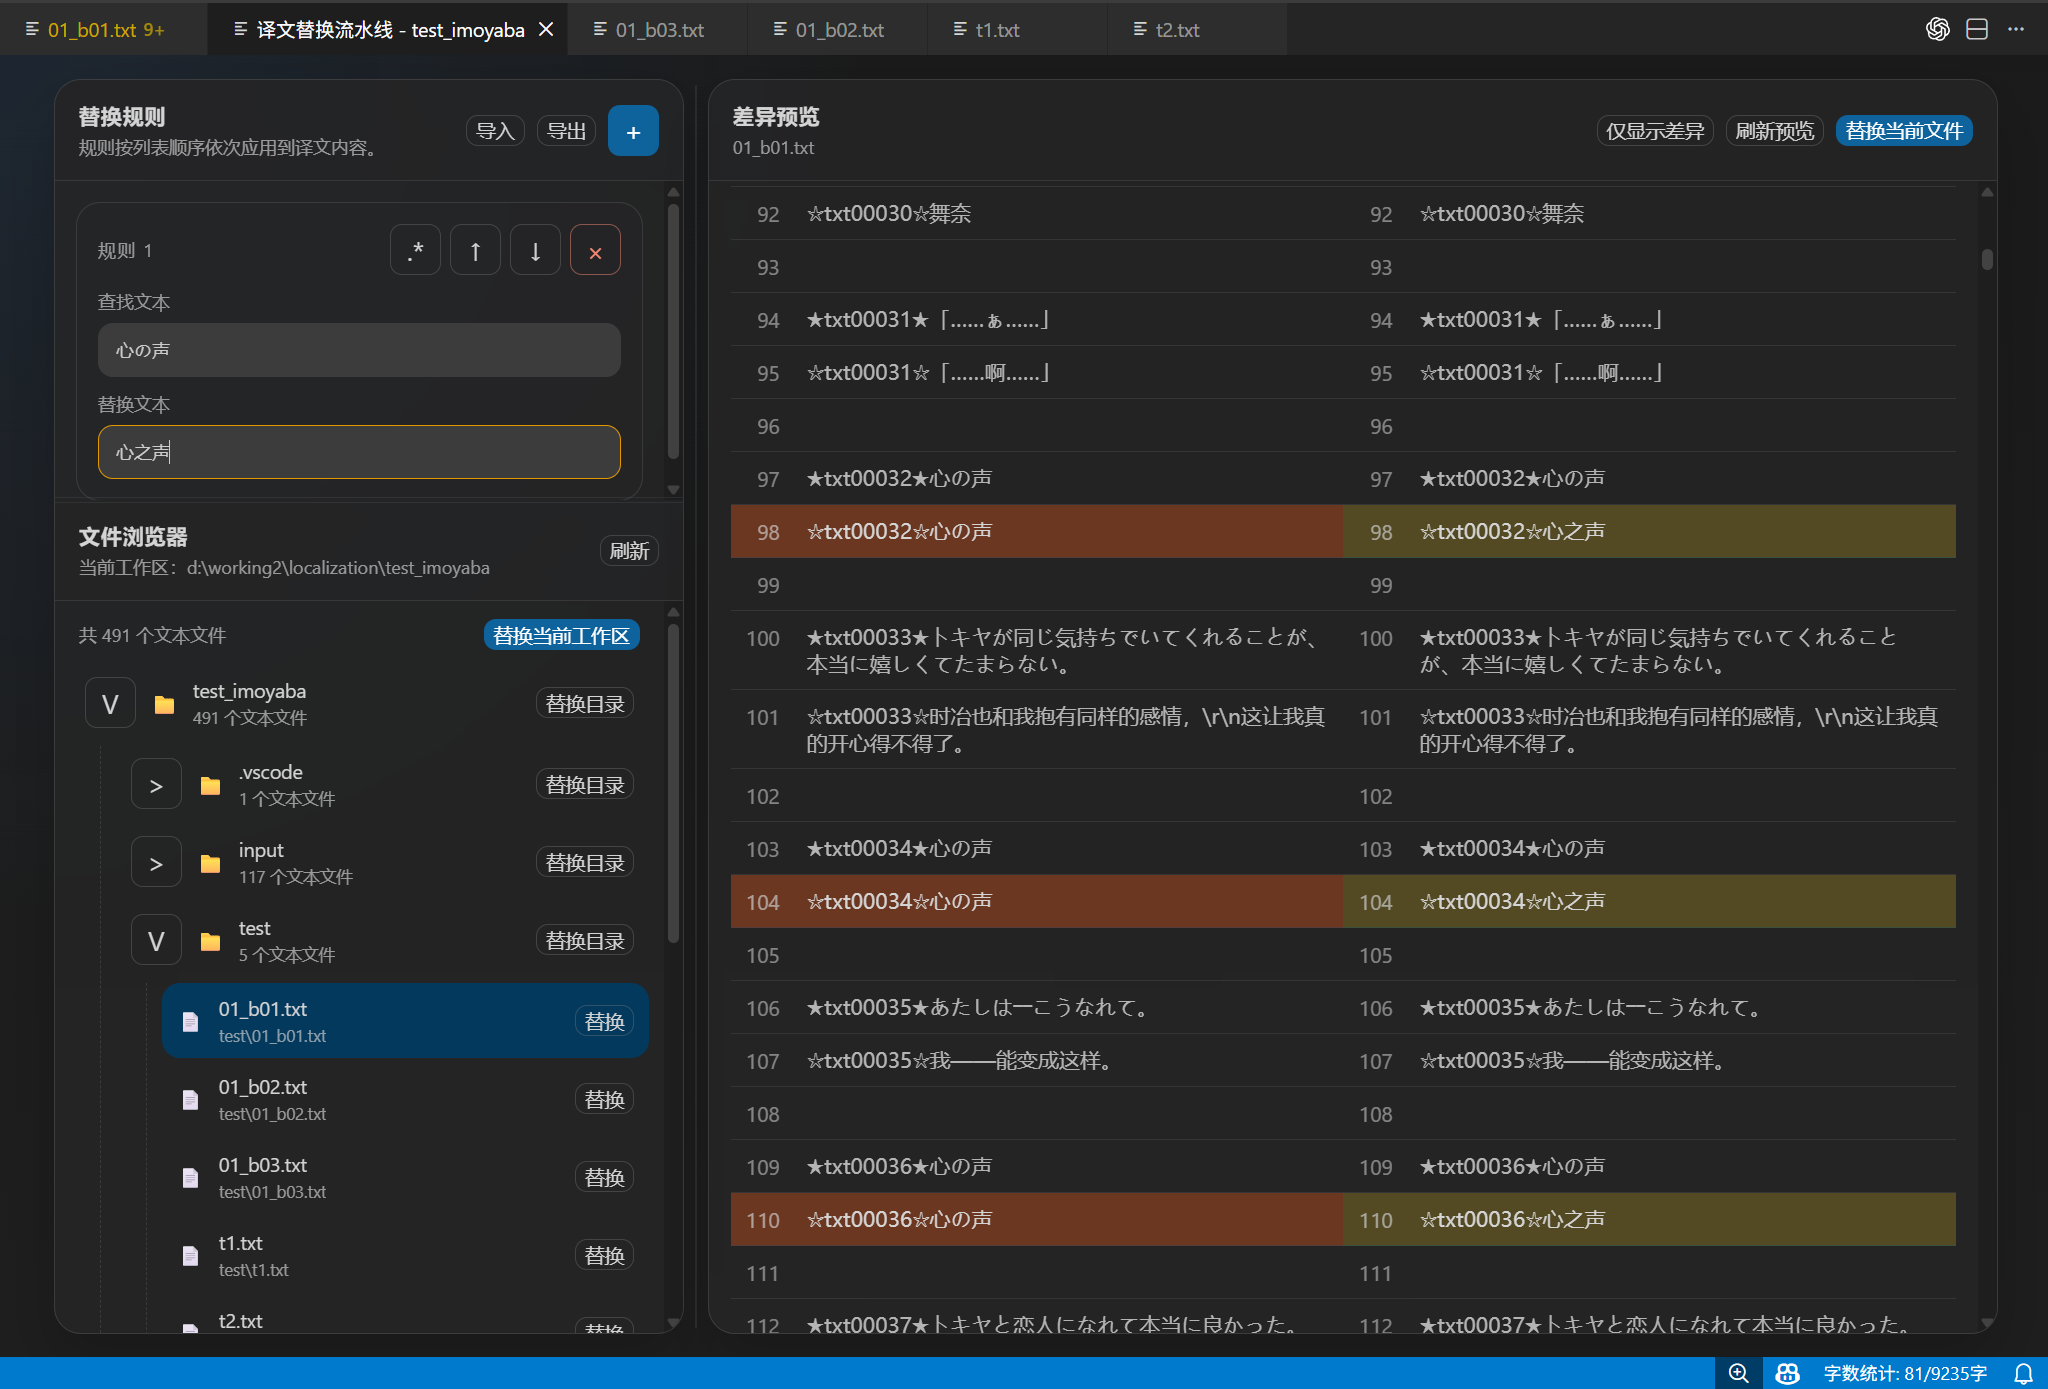
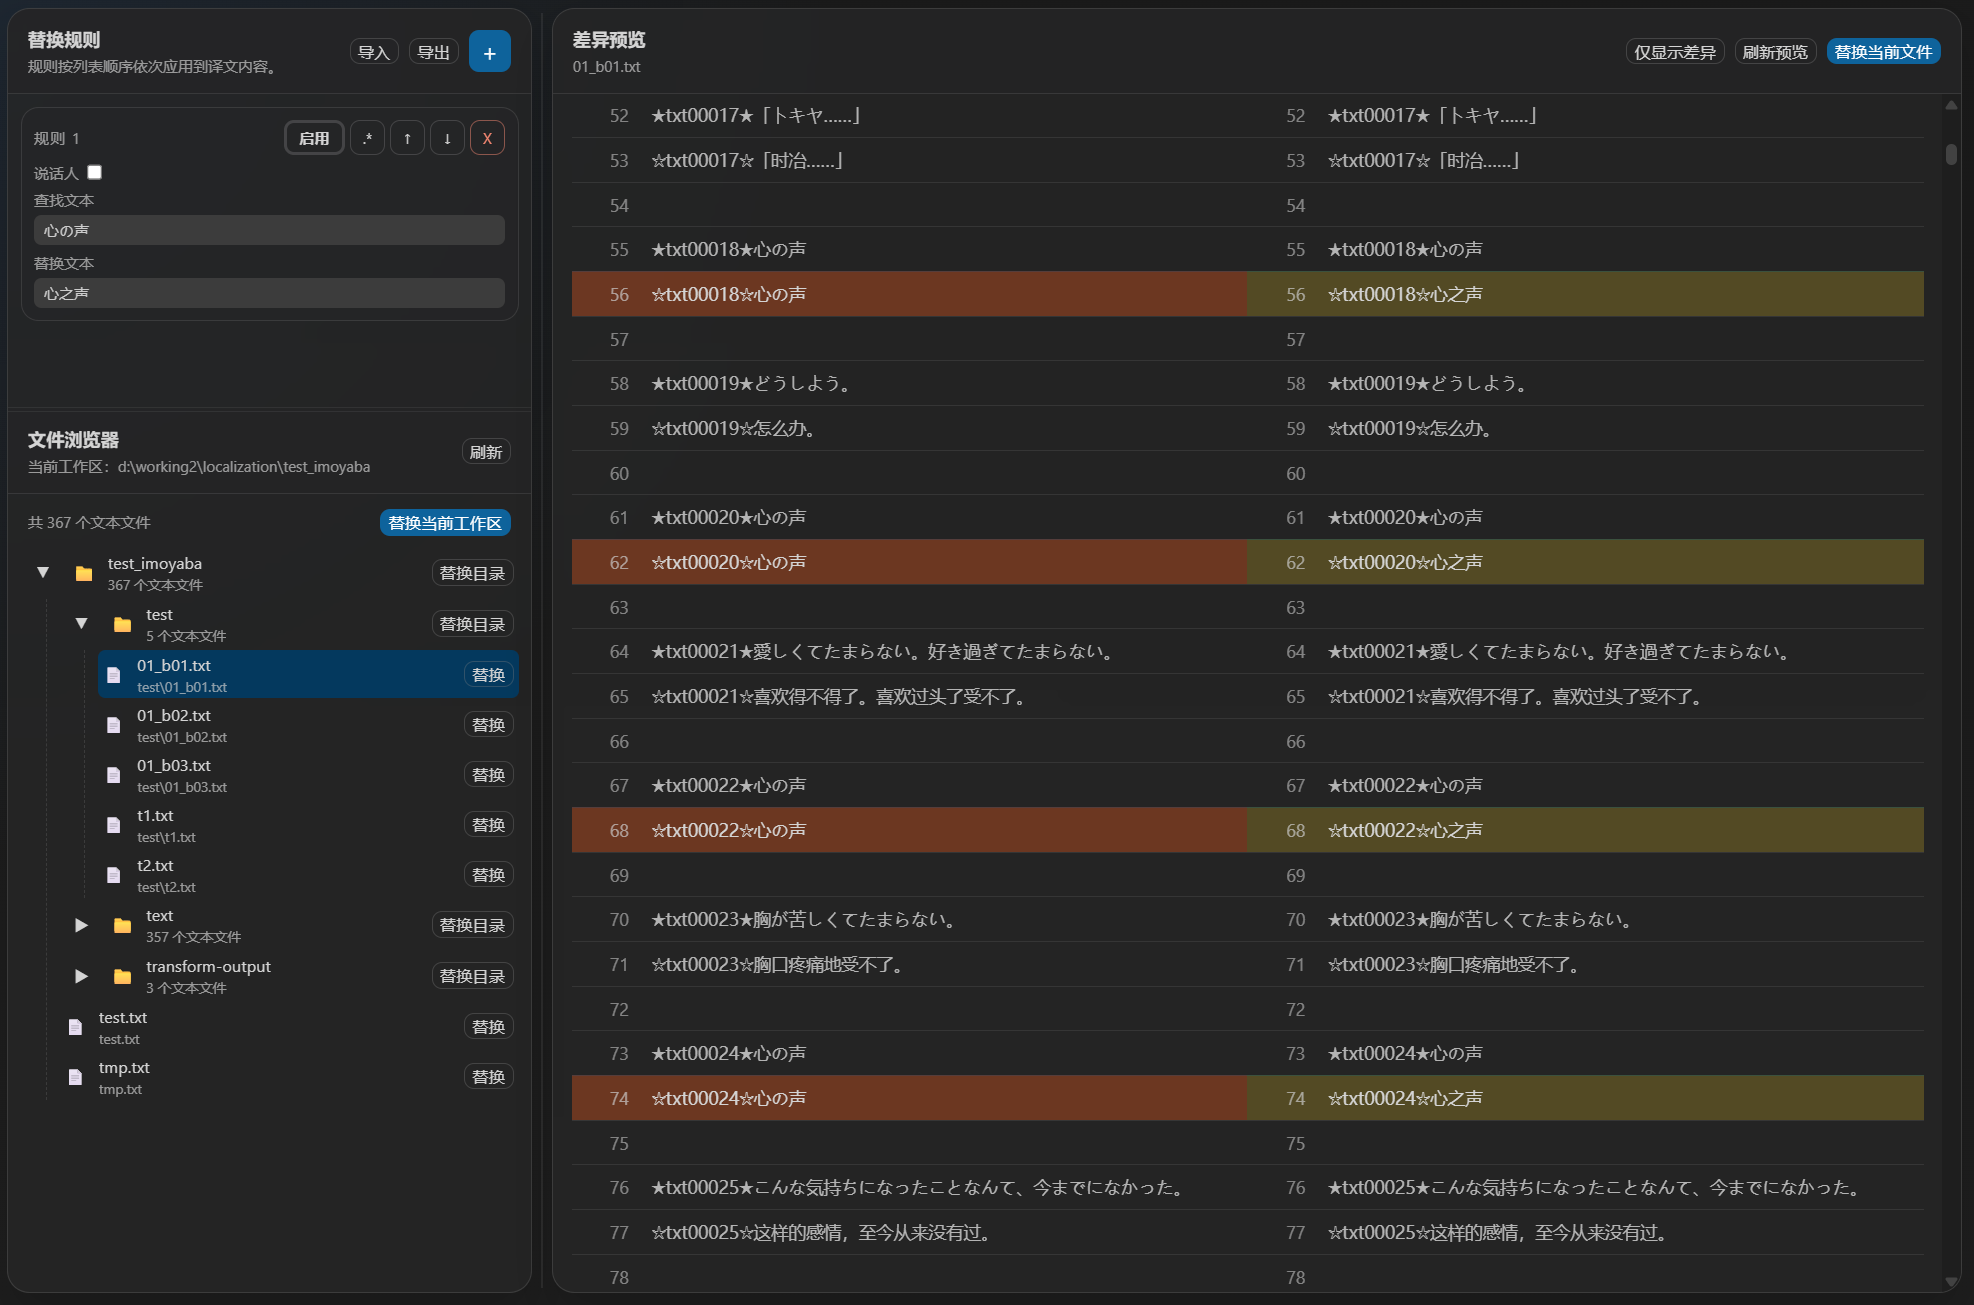
ui fix

diff --git a/src/webview/batch-regex-replace-react.tsx b/src/webview/batch-regex-replace-react.tsx
@@ -213,9 +213,6 @@ function splitLines(text: string): string[] {
 function computeDiffRows(beforeText: string, afterText: string): DiffRow[] {
 	const beforeLines = splitLines(beforeText);
 	const afterLines = splitLines(afterText);
-	if (beforeLines.length * afterLines.length <= 160000) {
-		return computeLcsDiff(beforeLines, afterLines);
-	}
 
 	const rows: DiffRow[] = [];
 	const max = Math.max(beforeLines.length, afterLines.length);
@@ -241,114 +238,6 @@ function computeDiffRows(beforeText: string, afterText: string): DiffRow[] {
 	return rows;
 }
 
-function computeLcsDiff(beforeLines: string[], afterLines: string[]): DiffRow[] {
-	const rows: DiffRow[] = [];
-	const m = beforeLines.length;
-	const n = afterLines.length;
-
-	let nextRow = new Array<number>(n + 1).fill(0);
-	let currRow = new Array<number>(n + 1).fill(0);
-	const hints = Array.from({ length: m }, () => new Uint8Array(n));
-
-	for (let i = m - 1; i >= 0; i--) {
-		for (let j = n - 1; j >= 0; j--) {
-			if (beforeLines[i] === afterLines[j]) {
-				currRow[j] = nextRow[j + 1] + 1;
-				hints[i][j] = 0;
-			} else {
-				const scoreMovedI = nextRow[j];
-				const scoreMovedJ = currRow[j + 1];
-
-				if (scoreMovedI === scoreMovedJ) {
-					currRow[j] = scoreMovedI;
-					hints[i][j] = 1;
-				} else if (scoreMovedI > scoreMovedJ) {
-					currRow[j] = scoreMovedI;
-					hints[i][j] = 2;
-				} else {
-					currRow[j] = scoreMovedJ;
-					hints[i][j] = 3;
-				}
-			}
-		}
-
-		const temp = nextRow;
-		nextRow = currRow;
-		currRow = temp;
-		currRow.fill(0);
-	}
-
-	let i = 0;
-	let j = 0;
-	while (i < m && j < n) {
-		const hint = hints[i][j];
-
-		if (hint === 0) {
-			rows.push({
-				kind: 'equal',
-				beforeLineNumber: String(i + 1),
-				afterLineNumber: String(j + 1),
-				beforeText: beforeLines[i],
-				afterText: afterLines[j],
-			});
-			i++;
-			j++;
-		} else if (hint === 1) {
-			rows.push({
-				kind: 'changed',
-				beforeLineNumber: String(i + 1),
-				afterLineNumber: String(j + 1),
-				beforeText: beforeLines[i],
-				afterText: afterLines[j],
-			});
-			i++;
-			j++;
-		} else if (hint === 2) {
-			rows.push({
-				kind: 'removed',
-				beforeLineNumber: String(i + 1),
-				afterLineNumber: '',
-				beforeText: beforeLines[i],
-				afterText: '',
-			});
-			i++;
-		} else {
-			rows.push({
-				kind: 'added',
-				beforeLineNumber: '',
-				afterLineNumber: String(j + 1),
-				beforeText: '',
-				afterText: afterLines[j],
-			});
-			j++;
-		}
-	}
-
-	while (i < m) {
-		rows.push({
-			kind: 'removed',
-			beforeLineNumber: String(i + 1),
-			afterLineNumber: '',
-			beforeText: beforeLines[i],
-			afterText: '',
-		});
-		i++;
-	}
-
-	while (j < n) {
-		rows.push({
-			kind: 'added',
-			beforeLineNumber: '',
-			afterLineNumber: String(j + 1),
-			beforeText: '',
-			afterText: afterLines[j],
-		});
-		j++;
-	}
-
-	return rows;
-}
-
 function RuleCard({
 	rule,
 	index,
@@ -363,7 +252,7 @@ function RuleCard({
 	const searchSearch = rule.regexEnabled ? '正则表达式' : '查找文本';
 	const searchReplace = rule.regexEnabled ? '正则替换' : '替换文本';
 	const placeHolder1 = rule.regexEnabled ? '(\\w+)_old' : '请输入要替换的文本';
-	const placeHolder2 = rule.regexEnabled ? '支持 $1、$2，以及 \\n / \\t 等转义' : '请输入替换内容';
+	const placeHolder2 = rule.regexEnabled ? '支持 $1、$2等' : '请输入替换内容';
 	
 	return (
 		<section className={`rule-card ${rule.enabled ? '' : 'disabled'}`}>
@@ -378,7 +267,7 @@ function RuleCard({
 						{rule.enabled ? '启用' : '停用'}
 					</button>
 					<button
-						className={`ghost icon-button ${rule.regexEnabled ? 'active' : ''}`}
+						className={`ghost icon-button small ${rule.regexEnabled ? 'active' : ''}`}
 						title={rule.regexEnabled ? '当前为正则模式，点击切换为普通文本模式' : '当前为普通文本模式，点击切换为正则模式'}
 						onClick={() => {
 							onChange(rule.id, 'regexEnabled', !rule.regexEnabled);
@@ -387,21 +276,21 @@ function RuleCard({
 						.*
 					</button>
 					<button
-						className="ghost icon-button"
+						className="ghost icon-button small"
 						disabled={index === 0}
 						onClick={() => onMove(rule.id, 'up')}
 					>
 						↑
 					</button>
 					<button
-						className="ghost icon-button"
+						className="ghost icon-button small"
 						disabled={index === total - 1}
 						onClick={() => onMove(rule.id, 'down')}
 					>
 						↓
 					</button>
-					<button className="ghost danger icon-button" onClick={() => onRemove(rule.id)}>
-						×
+					<button className="ghost danger icon-button small" onClick={() => onRemove(rule.id)}>
+						X
 					</button>
 				</div>
 			</div>
@@ -477,7 +366,7 @@ function TreeNode({ node, selectedFile, expandedFolders, onToggleFolder, onSelec
 								onToggleFolder(node.path);
 							}}
 						>
-							{isExpanded ? 'V' : '>'}
+							{isExpanded ? '▼' : '▶'}
 						</button>
 					) : null}
 					<div>{icon}</div>

diff --git a/src/webview/batch-regex-replace.css b/src/webview/batch-regex-replace.css
@@ -83,8 +83,8 @@ textarea {
   background: var(--input-bg);
   color: var(--input-text);
   border: 1px solid color-mix(in srgb, var(--input-border) 70%, transparent);
-  border-radius: 10px;
-  padding: 10px 12px;
+  border-radius: 6px;
+  padding: 4px 8px;
 }
 
 textarea {
@@ -207,6 +207,17 @@ textarea {
   justify-content: center;
   font-size: 18px;
 }
+.icon-button.small {
+  width: 28px;
+  height: 28px;
+  font-size: 12px;
+}
+.icon-button.folder-toggle {
+  border: none;
+  width: 28px;
+  height: 28px;
+  font-size: 12px;
+}
 
 .rules-list,
 .tree-shell,
@@ -216,20 +227,20 @@ textarea {
 }
 
 .rules-list {
-  padding: 14px;
+  padding: 10px;
   display: flex;
   flex-direction: column;
-  gap: 12px;
+  gap: 8px;
 }
 
 .rule-card {
-  padding: 14px;
-  border-radius: 16px;
+  padding: 10px;
+  border-radius: 14px;
   background: color-mix(in srgb, var(--panel-alt) 72%, transparent);
   border: 1px solid color-mix(in srgb, var(--border) 70%, transparent);
   display: flex;
   flex-direction: column;
-  gap: 10px;
+  gap: 6px;
 }
 
 .rule-card.disabled {
@@ -240,7 +251,7 @@ textarea {
   display: flex;
   align-items: center;
   justify-content: space-between;
-  gap: 10px;
+  gap: 6px;
 }
 
 .rule-index {
@@ -252,7 +263,7 @@ textarea {
 
 .rule-actions {
   display: flex;
-  gap: 6px;
+  gap: 4px;
   flex-wrap: wrap;
   justify-content: flex-end;
 }
@@ -263,9 +274,10 @@ textarea {
 }
 
 .rule-toggle {
-  min-width: 58px;
-  height: 34px;
+  min-width: 48px;
+  height: 28px;
   padding: 0 10px;
+  font-size: 12px;
 }
 
 .rule-toggle-checkbox {
@@ -273,7 +285,7 @@ textarea {
   flex-direction: row;
   align-items: center;
   justify-content: flex-start;
-  gap: 8px;
+  gap: 6px;
   font-size: 12px;
   color: var(--muted);
   cursor: pointer;
@@ -294,7 +306,7 @@ textarea {
 .field-label {
   display: flex;
   flex-direction: column;
-  gap: 6px;
+  gap: 4px;
   font-size: 12px;
   color: var(--muted);
 }
@@ -326,22 +338,22 @@ textarea {
 .tree {
   display: flex;
   flex-direction: column;
-  gap: 4px;
+  gap: 2px;
 }
 
 .tree-node {
   display: flex;
   flex-direction: column;
-  gap: 4px;
+  gap: 2px;
 }
 
 .tree-row {
   display: grid;
   grid-template-columns: 1fr auto;
-  gap: 8px;
+  gap: 2px;
   align-items: center;
-  padding: 8px 10px;
-  border-radius: 12px;
+  padding: 2px 4px;
+  border-radius: 6px;
 }
 
 .tree-row:hover {
@@ -388,6 +400,7 @@ textarea {
   padding-left: 10px;
   border-left: 1px dashed color-mix(in srgb, var(--border) 72%, transparent);
 }
+
 
 .preview-panel {
   display: flex;

diff --git a/src/batch-regex-replace.ts b/src/batch-regex-replace.ts
@@ -6,28 +6,7 @@ import { getCurrentWorkspaceFolder, registerCommand } from './utils';
 
 const VIEW_TYPE = 'dltxt-batch-regex-replace';
 const PANEL_TITLE = '译文替换流水线';
-const TEXT_FILE_EXTENSIONS = new Set([
-  '.txt',
-  '.md',
-  '.csv',
-  '.json',
-  '.yaml',
-  '.yml',
-  '.ini',
-  '.cfg',
-  '.conf',
-  '.xml',
-  '.html',
-  '.htm',
-  '.css',
-  '.js',
-  '.ts',
-  '.po',
-  '.properties',
-  '.srt',
-  '.ass',
-  '.ks'
-]);
+const TEXT_FILE_EXTENSIONS = new Set(['.txt']);
 
 type ReplaceRuleType = 'standard' | 'naming-conditional';
 
@@ -352,10 +331,7 @@ function findFirstFile(node: FileTreeNode): string | undefined {
 
 function isTextFile(fileName: string): boolean {
   const extension = path.extname(fileName).toLowerCase();
-  if (TEXT_FILE_EXTENSIONS.has(extension)) {
-    return true;
-  }
-  return extension.length === 0;
+  return TEXT_FILE_EXTENSIONS.has(extension);
 }
 
 function escapeRegExp(string: string): string {

diff --git a/README.md b/README.md
@@ -427,6 +427,8 @@ DLTXT默认支持以下格式（用横线隔开）
 #### 替换规则
 这是一个替换规则列表。每个规则支持普通文本替换和正则表达式文本替换，点击`.*`按钮切换。替换时支持捕获组，用$1, $2等表示。每条规则可以移动顺序，从上到下按顺序替换。
 
+如果勾选并填写说话人，则仅当说话人匹配时才会替换文本（需要事先配置说话人识别方法）
+
 点击导入/导出可以把规则列表导入导出到文件。
 
 #### 文件浏览器